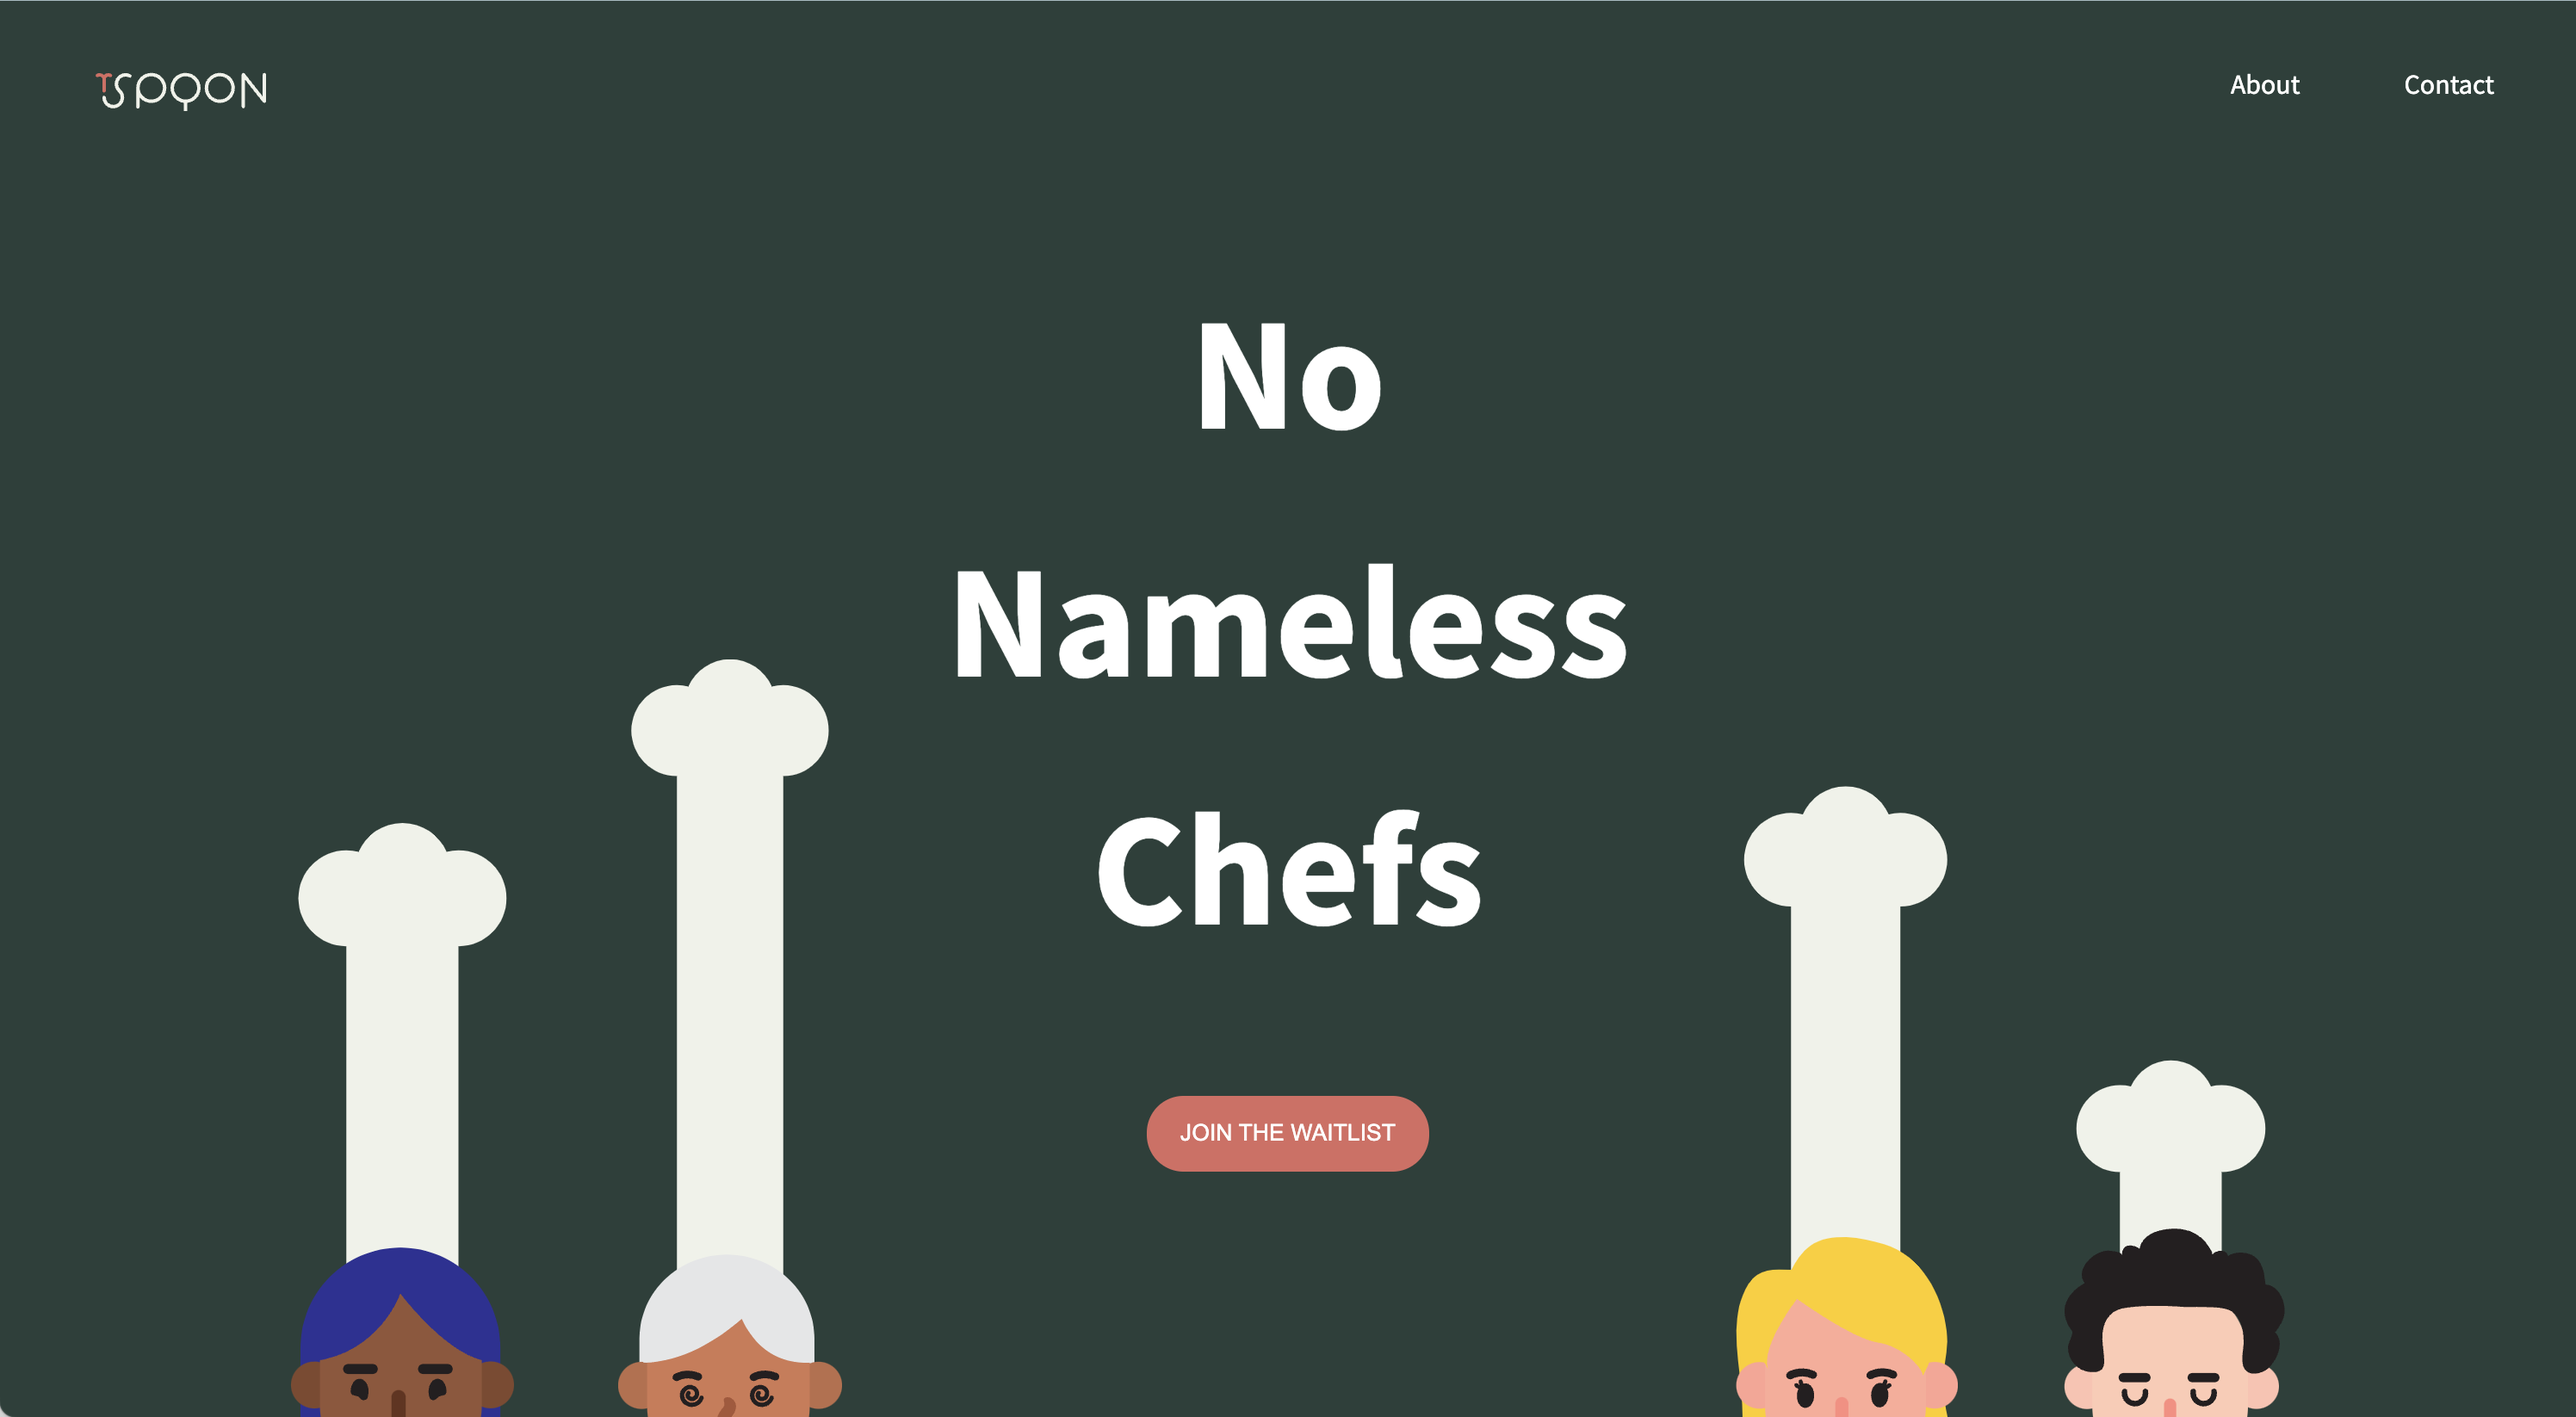
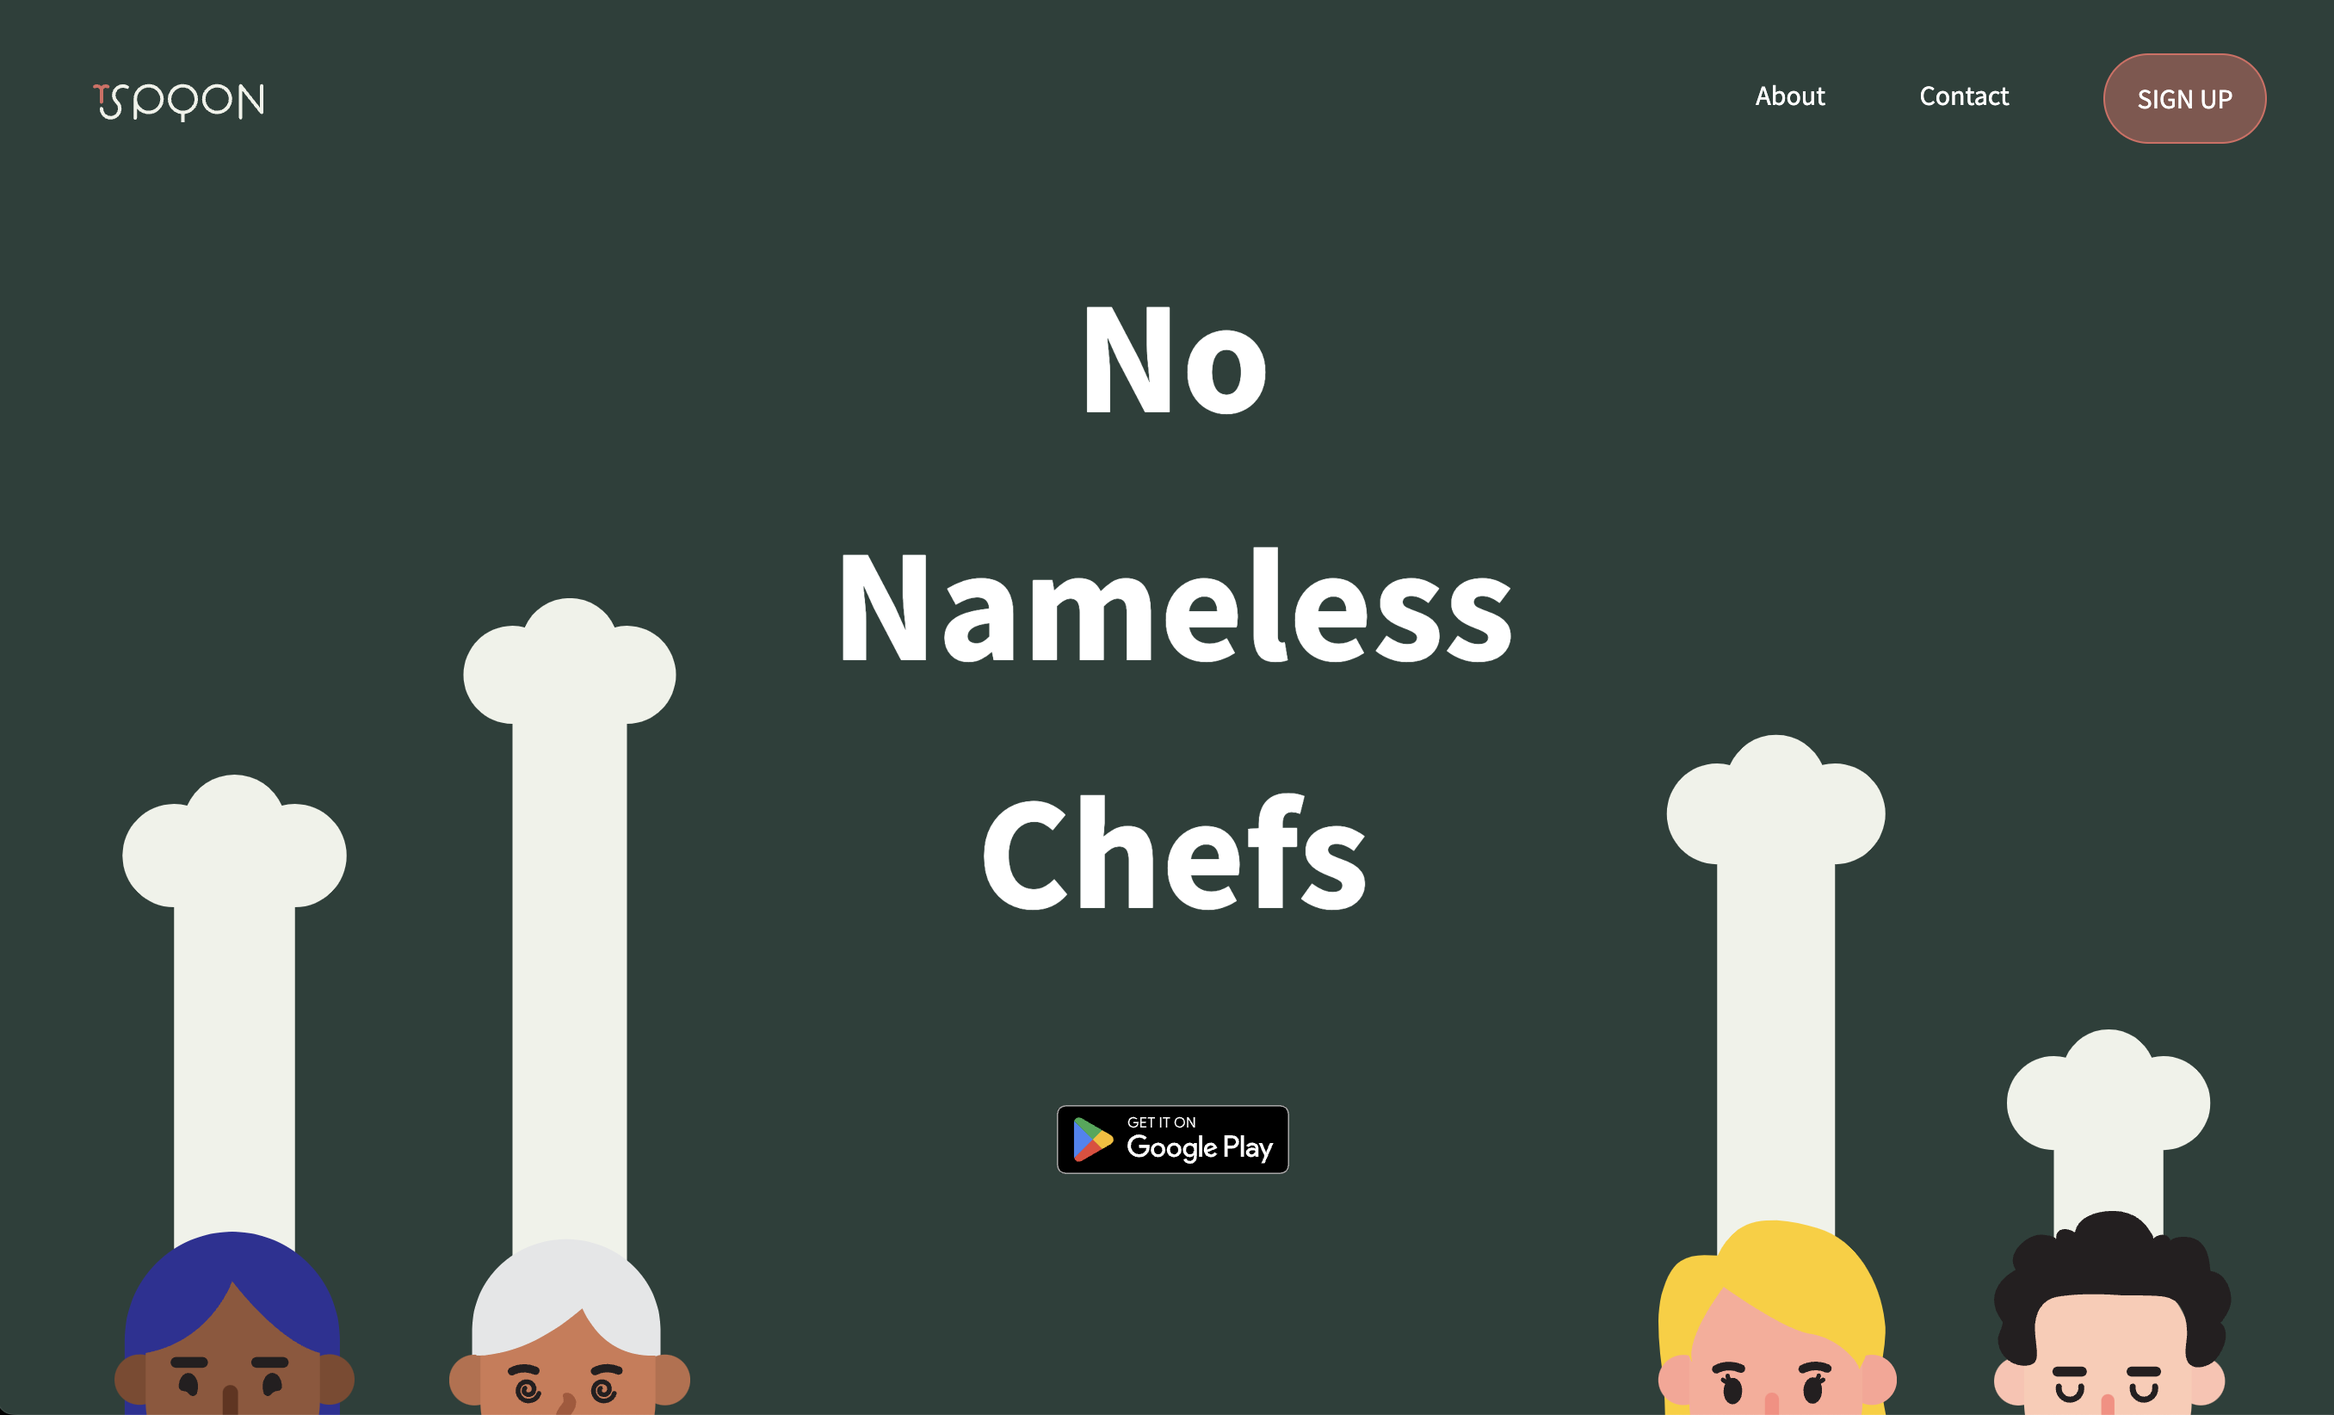
website preview update

diff --git a/README.md b/README.md
@@ -155,9 +155,10 @@ _For more examples, please refer to the [Documentation](https://example.com)_
 <!-- ROADMAP -->
 ## Roadmap
 
+- [x] App Preview
+- [x] Download the app from Google Play!
+- [x] Download the app from Apple Store!
 - [ ] Scroll Animations
-- [ ] App Preview
-- [ ] Download the App!
 
 See the [open issues](https://github.com/dicristea/tspoon-web/issues) for a full list of proposed features (and known issues).
 
@@ -198,7 +199,7 @@ Distributed under the MIT License. See `LICENSE.txt` for more information.
 
 
 
-<!-- MARKDOWN LINKS & IMAGES -->
+###MARKDOWN LINKS & IMAGES
 <!-- https://www.markdownguide.org/basic-syntax/#reference-style-links -->
 
 <!-- [contributors-shield]: https://img.shields.io/github/contributors/dicristea/tspoon-web.svg?style=for-the-badge
